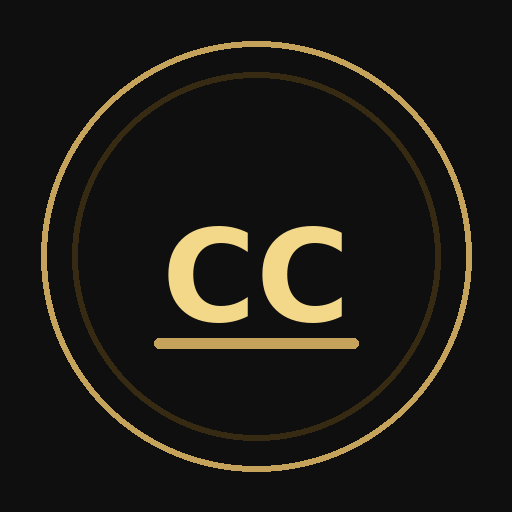
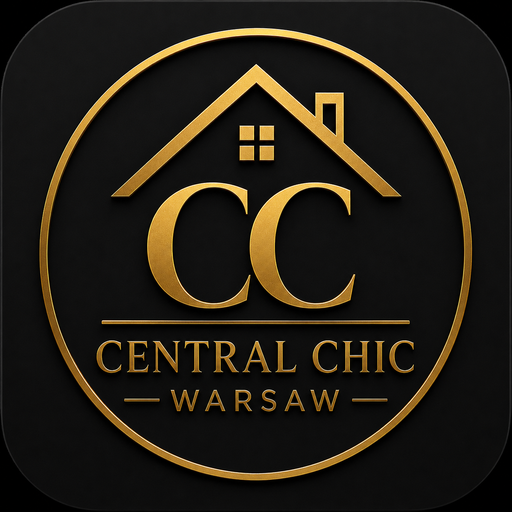
Add files via upload

diff --git a/README.md b/README.md
@@ -1,3 +1,5 @@
-# Central Chic Warsaw v3.0
+# Central Chic Warsaw v3.0 — ikona z domkiem
 
-Ostateczna uproszczona wersja: tekstylia, czyste/brudne/pralnia, check-in 15:00, check-out 11:00, aktualna data, historia i korekta.
+Wersja z nową ikoną: czarne tło, złoty domek, CC oraz pełna nazwa Central Chic Warsaw.
+
+Po wgraniu plików do GitHuba i odświeżeniu Vercela usuń starą ikonę z ekranu głównego iPhone'a, a potem dodaj aplikację ponownie przez Safari → Udostępnij → Do ekranu głównego.